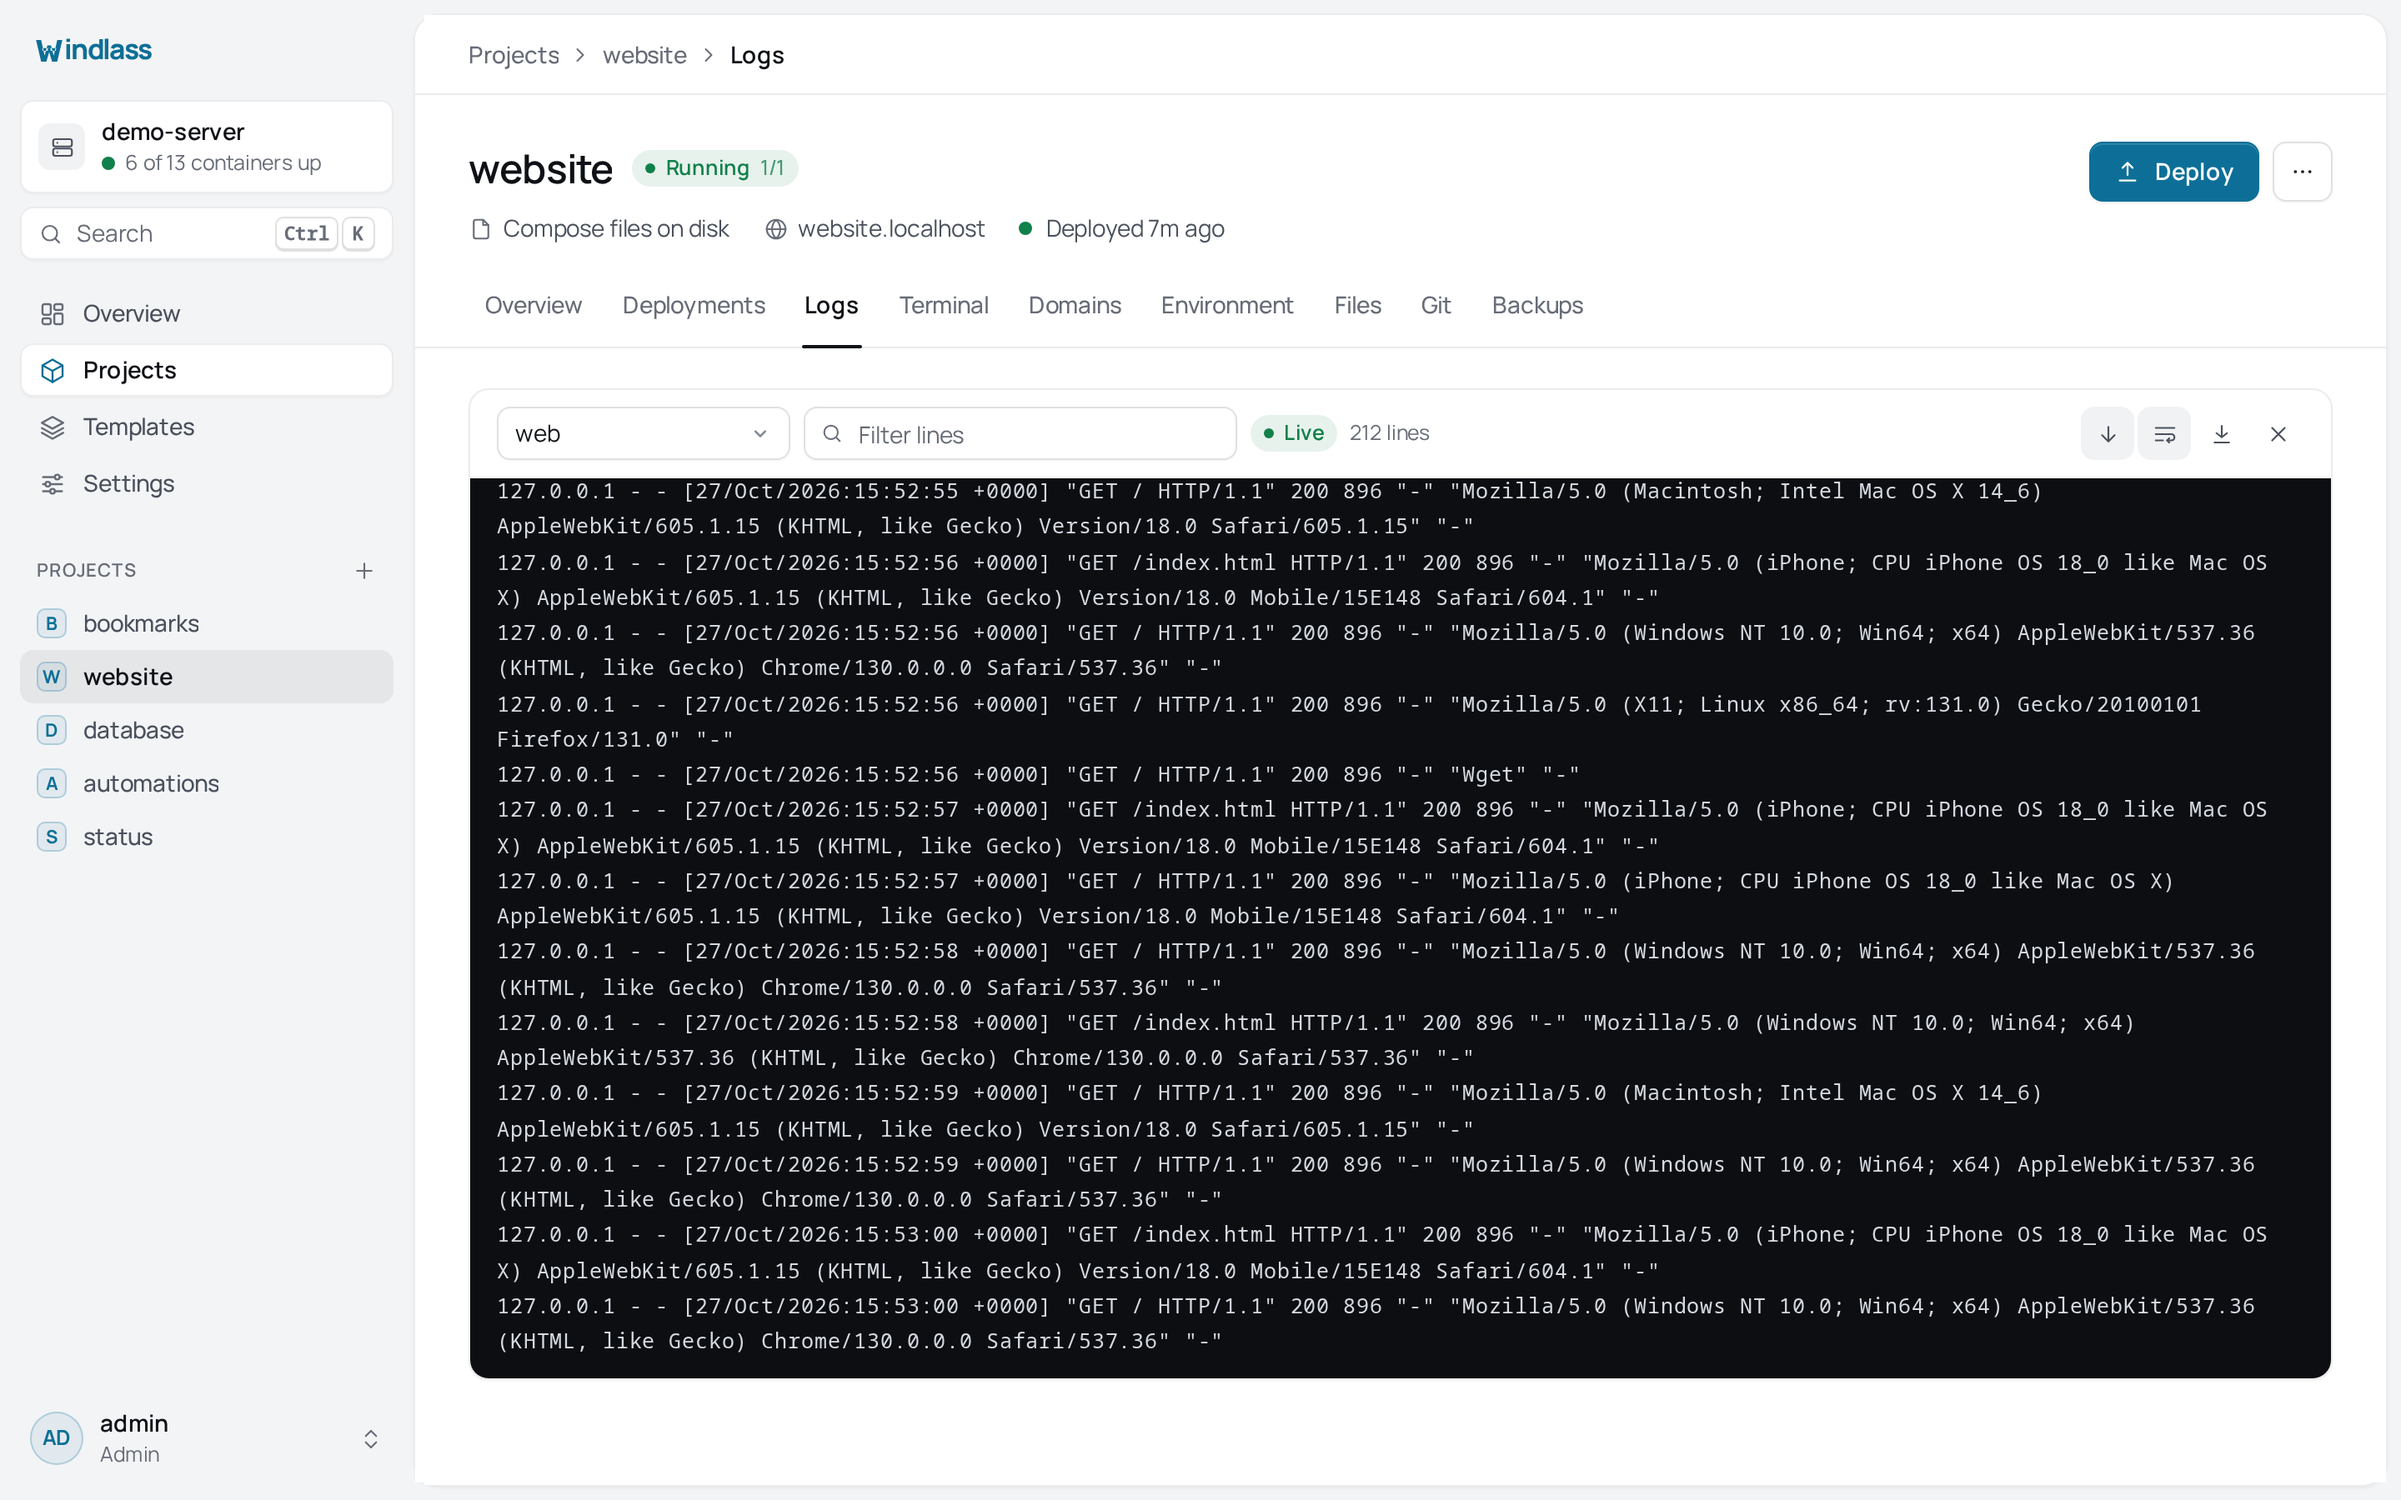
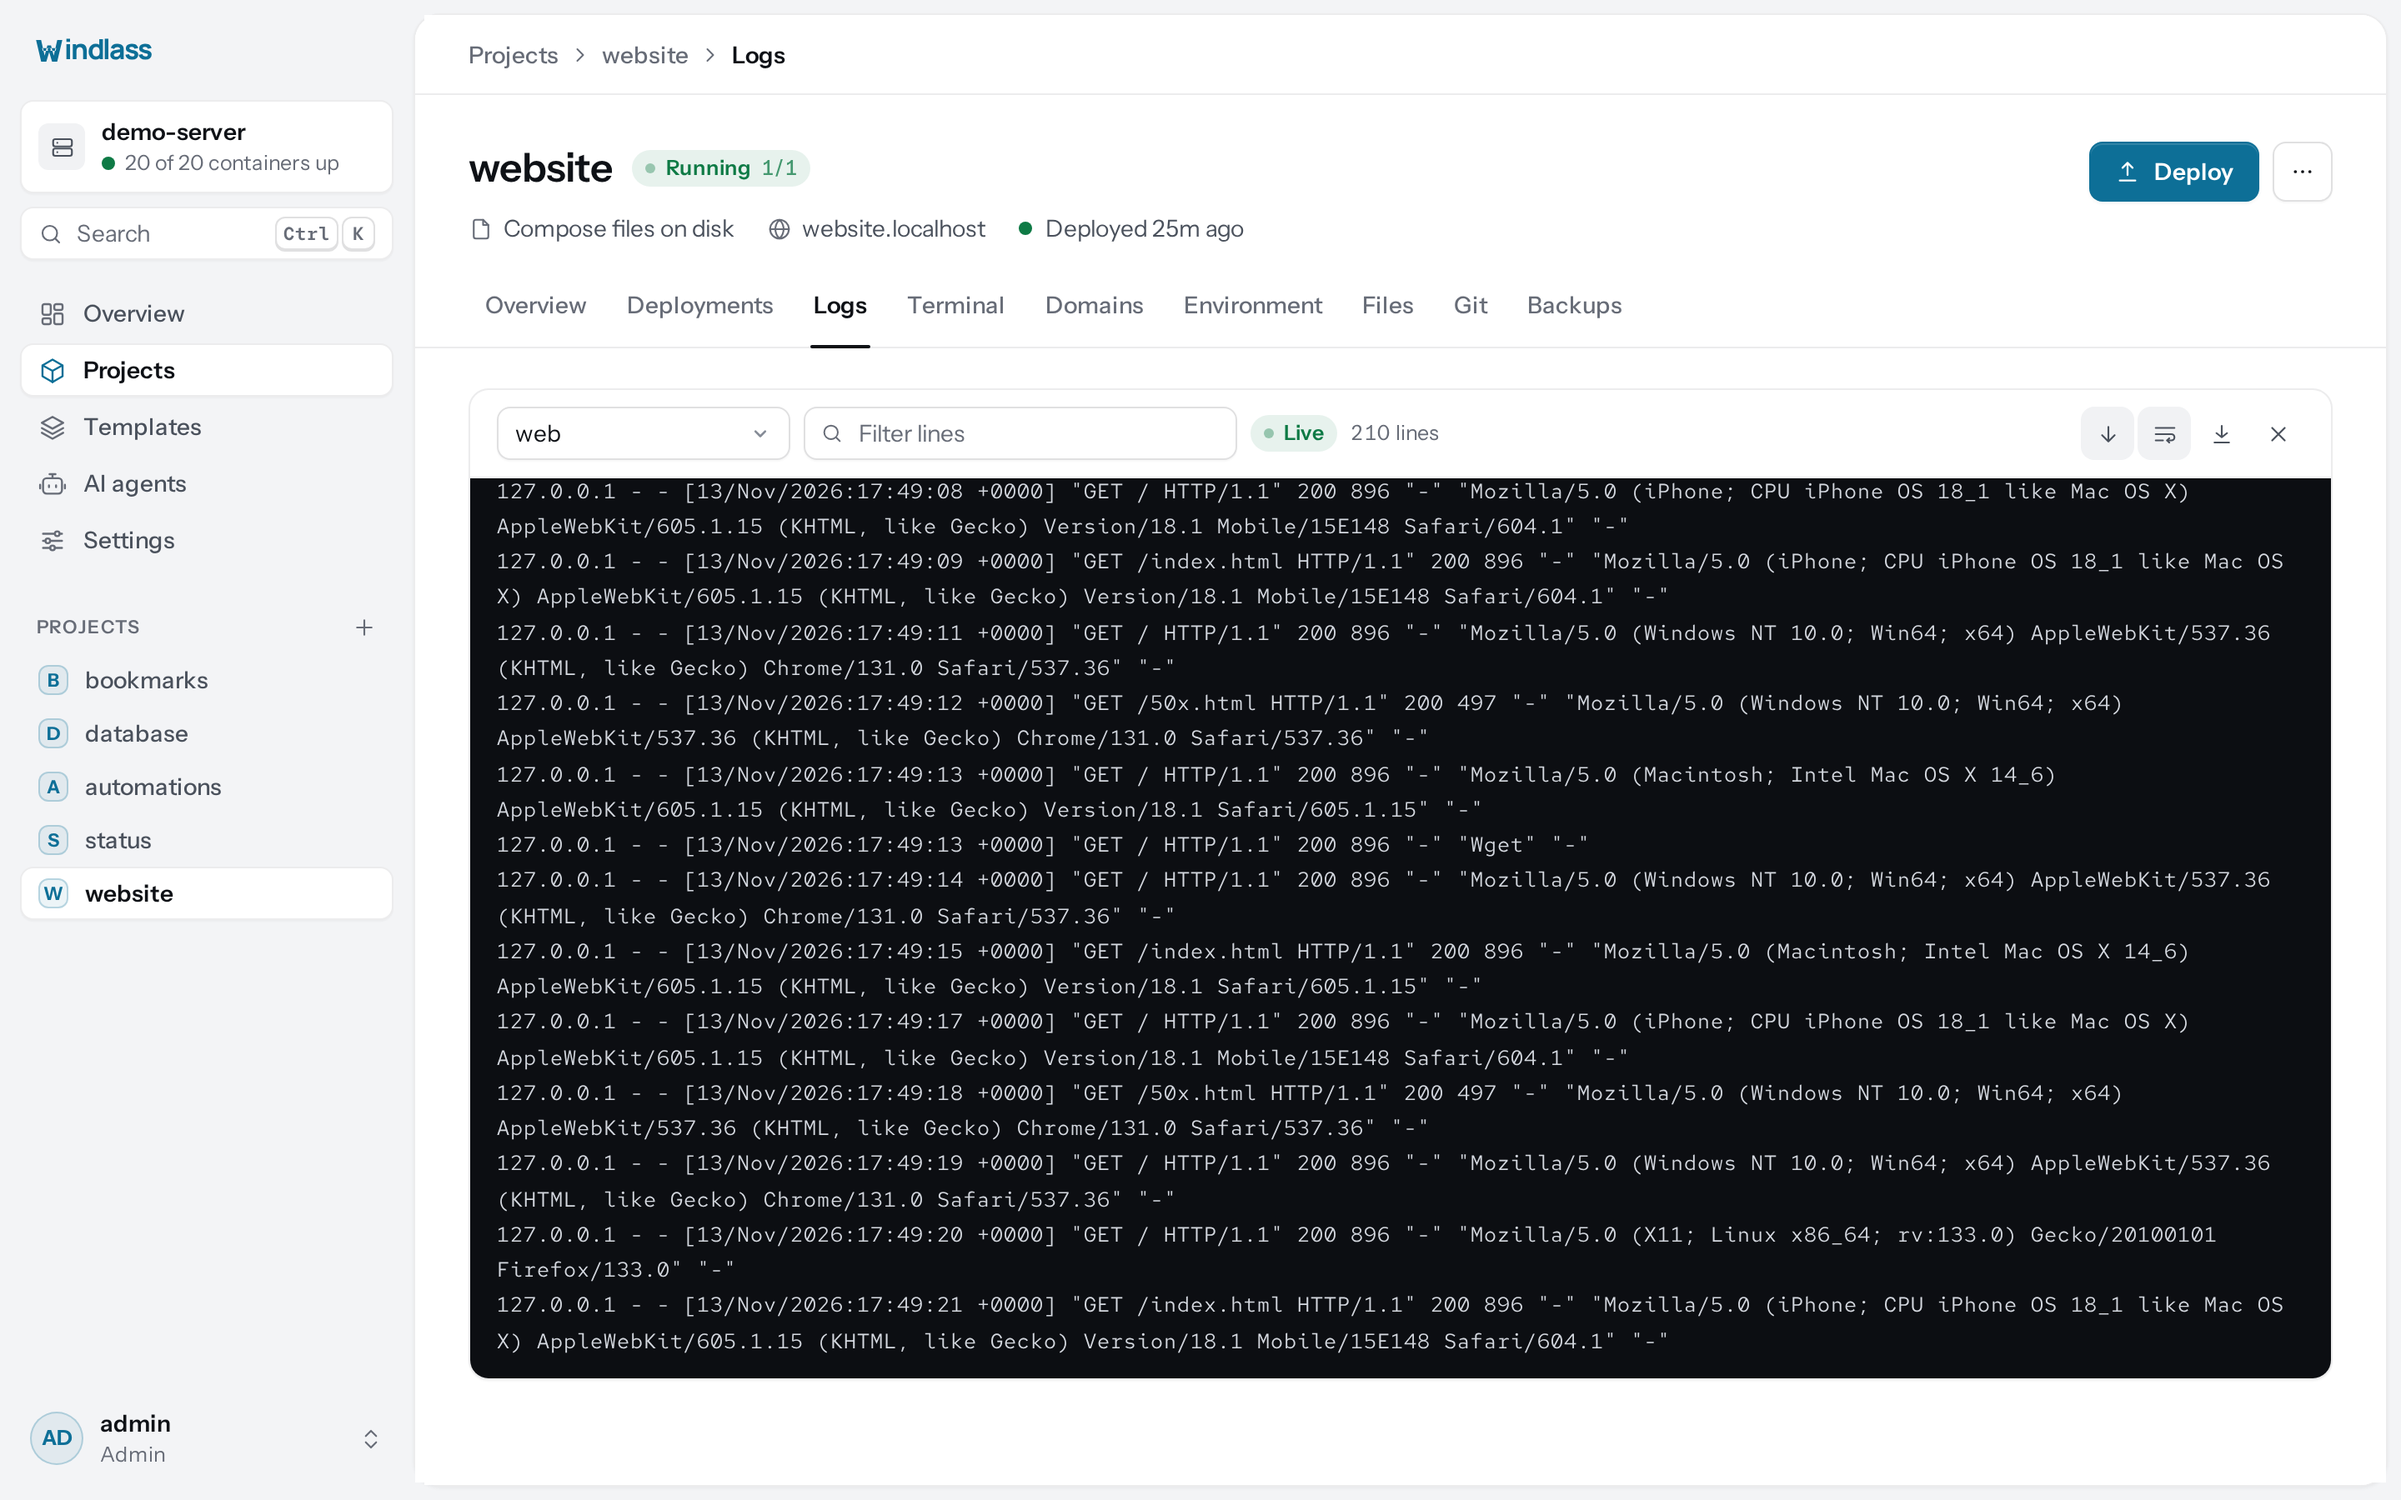
docs: reshoot screenshots and deploy.gif for v0.62
The dashboard now shows the Needs you list, and the deployments and
overview views match the v0.62 panel. Same dataset and capture settings
as the last set.

diff --git a/docs/screenshots/README.md b/docs/screenshots/README.md
@@ -17,8 +17,11 @@ view is shot in both themes so pages can pair them to the reader's preference.
 
 These are real deployments, not mockups: five Compose projects running nginx, PostgreSQL,
 Uptime Kuma, linkding and n8n, with Caddy in front and three domains routed.
-The AI agents shot is the one exception: taken on an empty instance and cropped to the page,
-with the panel domain answer stubbed to `windlass.example.com` so it shows the HTTPS state.
+The AI agents shot is the one exception: cropped to the page, with the panel domain answer
+stubbed to `windlass.example.com` so it shows the HTTPS state.
+
+The set was last reshot for v0.62, on 13/11/2026. The dashboard shows the Needs you list with
+two real rows: two of the five projects have volumes and no backup schedule.
 
 ## Recordings
 
